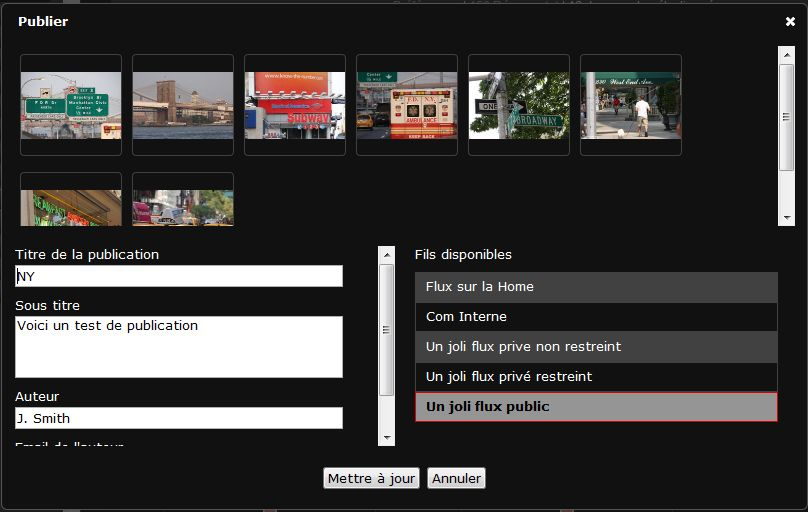
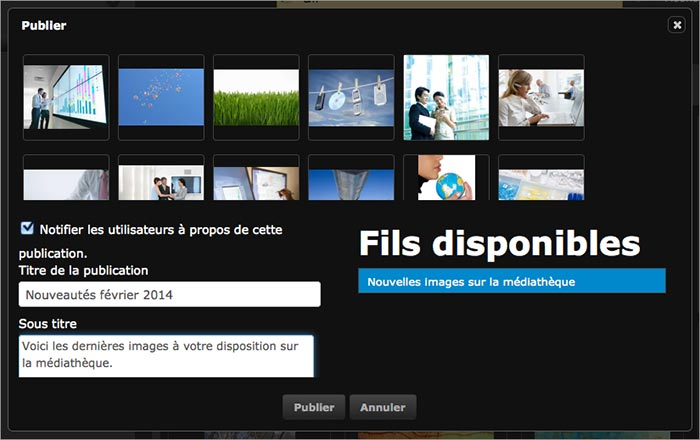
- Sentense about Publication notification checkbox for Publication available in 3.8.1 - Remove some screenshot for Bridge - Few sentences rewritten for Bridge

diff --git a/fr/User/Manuel/Publier.rst b/fr/User/Manuel/Publier.rst
@@ -14,111 +14,83 @@ Publier des paniers et des reportages
 Les publications Phraseanet permettent de mettre à la disposition d'utilisateurs
 des :doc:`Paniers <PaniersReportages>` et des Reportages dans la page des
 publications.
-Ces publications sont également disponibles sous forme de flux mediaRSS hors de
-l'application et exploitable dans des applications tierces.
+Ces publications sont également disponibles sous forme de flux mediaRSS
+exploitables hors de *Phraseanet* dans des applications tierces.
 
-* Ouvrir l'onglet des paniers dans *Phraseanet Production*.
-* Cliquer sur la barre de titre du panier souhaité pour le dérouler et faire
-  apparaître son menu.
-* Cliquer sur l'icône **Publier** (icône orange représentant les flux RSS).
-
-* Cliquer sur la barre de titre du panier souhaité pour faire apparaître sa
-  barre d'actions.
-
-* Cliquer sur l'icône **Publier** (icône orange représentant les flux RSS).
+* Sélectionner des documents ou ouvrir un panier dans *Phraseanet Production*.
+* Cliquer sur l'icône **Publier** dans le menu contextuel Push de la barre
+  d'action ou sur icône orange **RSS** dans le panier ouvert.
 
 Une fenêtre s'ouvre:
 
 .. image:: ../../images/Publier-Panier2.jpg
     :align: center
 
-Plusieurs champs peuvent être remplis:
+Renseigner le formulaire :
 
-* Le titre de la publication
-* Le sous titre
-* Auteur
-* Email de l'auteur
+* Cocher ou décocher la case à cocher pour notifier les utilisateurs à propos de
+  cette publication
+* Donner un titre, un sous titre,
+* Le nom de l'auteur et l'adresse correspondent aux renseignements du compte
+  utilisateur.
 
-Pour finir de remplir les informations:
+Sélectionner le fil de publication (se reporter à la rubrique
+:doc:`Publications <AdministrationSolution>` de *Phraseanet Admin* pour créer
+des fils) puis cliquer sur **Publier**.
 
-* Choisir le fil disponible dans la liste (les fils sont créés préalablement
-  dans la rubrique :doc:`Publications <AdministrationSolution>` de *Phraseanet
-  Admin*).
-* Cliquer enfin sur **Publier** pour valider
+La publication est visible dans la rubrique *Publications* de la barre de menu.
 
-La publication est faite.
-
-Elle est désormais visible dans les *Publications Phraseanet*
-
-**L'utilisateur peut y accéder en cliquant sur le lien *Publications* dans la
-barre de menu Phraseanet** :
-
-.. image:: ../../images/Publier-menu.jpg
-    :align: center
-
-Après avoir cliqué sur *Publications* dans la barre de menu, la publication
-apparaît :
-
-.. image:: ../../images/Publier-Affichage.jpg
-    :align: center
-
-Des applications tierces, comme Phraseanet Showcase, peuvent également exploiter
-les publications. Elles sont en effet disponibles sous forme de flux mediaRSS
-hors de l'application.
+Les publications sont disponibles sous forme de flux mediaRSS hors de Phraseanet
+Production et des des applications tierces, comme Phraseanet Showcase, peuvent
+les exploiter.
 
 .. _bridge-share:
 
 Diffuser avec Bridge
 --------------------
 
-Le **Bridge Phraseanet** permet de publier ses photos et autres documents
-multimédia vers des sites extérieurs, tels que :
+Le **Bridge Phraseanet** permet de publier des médias vers des sites extérieurs,
+tels :
 
 * `FlickR`_
 * `YouTube`_
 * `Dailymotion`_
 
-Pour publier des documents vers ces sites, sélectionner des documents, connecter
-un compte `Flickr <http://www.flickr.com/>`_,
+Pour publier des documents vers ces applications, sélectionner des documents,
+connecter un compte `Flickr <http://www.flickr.com/>`_,
 `YouTube <http://www.youtube.com/>`_ ou
-`Dailymotion <http://www.dailymotion.com/>`_, à Phraseanet, et effectuer des
-publications.
+`Dailymotion <http://www.dailymotion.com/>`_, à Phraseanet, puis effectuer des
+publications avec **Bridge**.
 
 Sélection des médias
 ********************
 
-* Sélectionner une ou plusieurs médias dans *Phraseanet Production*. Cela peut
-  être des documents sélectionnés dans la zone d'affichage, ou regroupés dans
-  des paniers ou des reportages.
-* Cliquer, dans la :doc:`palette des Actions <Actions>`, sur le menu
-  contextuel du bouton "Push".
-
-Deux choix sont proposés: "Bridge" et "Publier" :
+* Sélectionner une ou plusieurs médias dans *Phraseanet Production*. Ils peuvent
+  être regroupés dans des paniers ou des reportages.
+* Dans la :doc:`palette des Actions <Actions>`, développer le menu contextuel du
+  bouton "Push" puis cliquer sur l'icône **Bridge**.
 
 .. image:: ../../images/Bridge-1.jpg
     :align: center
 
-* Cliquer sur **Bridge**
-
 S'authentifier
 **************
 
-La fenêtre du **Bridge** s'ouvre:
+La fenêtre du **Bridge** s'ouvre :
 
-* Cliquer sur **Nouveau** pour se connecter au compte choisi : Phraseanet
-  propose de se connecter soit à son compte Flickr, Youtube ou Dailymotion...
+* Cliquer sur **Nouveau** pour se connecter au choix à un compte Flickr, Youtube
+  ou Dailymotion selon les possibilités de partage configurées dans le
+  paramétrage **Phraseanet Admin**.
 
 .. image:: ../../images/Bridge-1b.jpg
     :align: center
 
-Le site demande de s'authentifier, puis d'accorder la permission à Phraseanet de
-se connecter.
+S'authentifier au service, puis autoriser Phraseanet de se connecter.
 
-Une fois connecté, Bridge récupère les informations existantes dans l'
-application distante.
+**Bridge** récupère les informations existantes sur l'application distante.
 
-Dans le cas de Flickr, les photos existantes sont affichées dans l'onglet
-"Photos" ou "Photosets" si les elles sont organisées en albums dans Flickr.
+Pour Flickr, les photos existantes sont affichées dans l'onglet "Photos" ou
+"Photosets" si organisées en albums.
 
 .. image:: ../../images/Bridge-3a.jpg
     :align: center
@@ -138,8 +110,8 @@ description.
 .. image:: ../../images/Bridge-2.jpg
     :align: center
 
-A mesure que les images sont envoyées, il est possible de voir l'avancement du
-transfert par un simple clic sur l'onglet **Fichiers envoyés**.
+Il est possible de voir l'avancement du transfert par un simple clic sur
+l'onglet **Fichiers envoyés**.
 
 .. image:: ../../images/Bridge-4.jpg
     :align: center
@@ -148,7 +120,7 @@ transfert par un simple clic sur l'onglet **Fichiers envoyés**.
 * Une information de date indique depuis combien de temps l'envoi a été
   effectué.
 
-Lancer *Flickr*. Les médias y sont bien présents.
+Lancer *Flickr*. Les médias transférés de Phraseanet sont bien présents.
 
 .. image:: ../../images/Bridge-5.jpg
     :align: center
